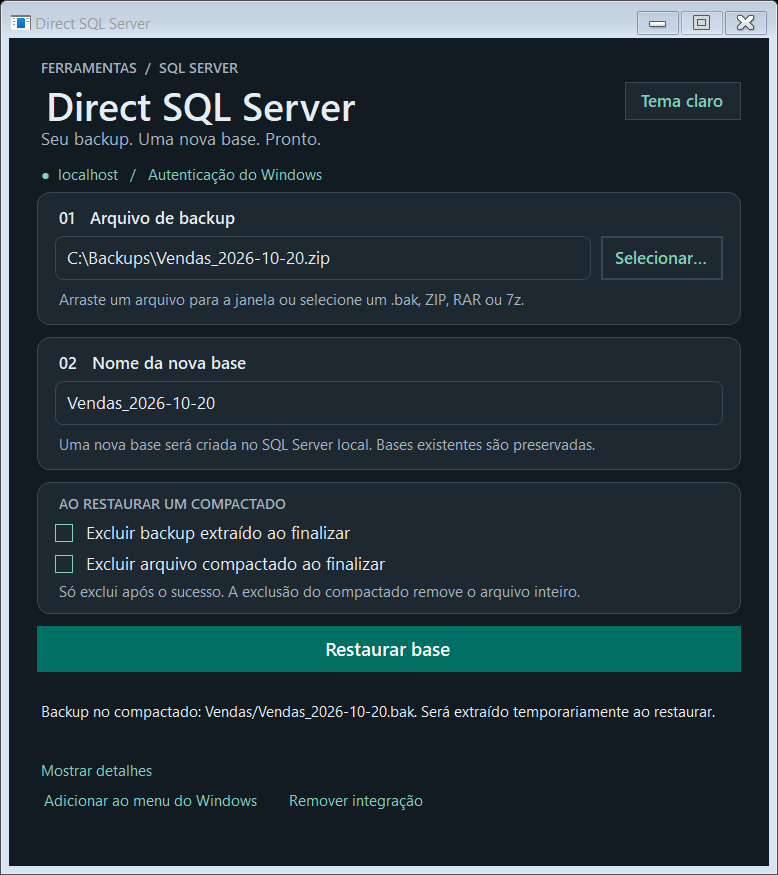
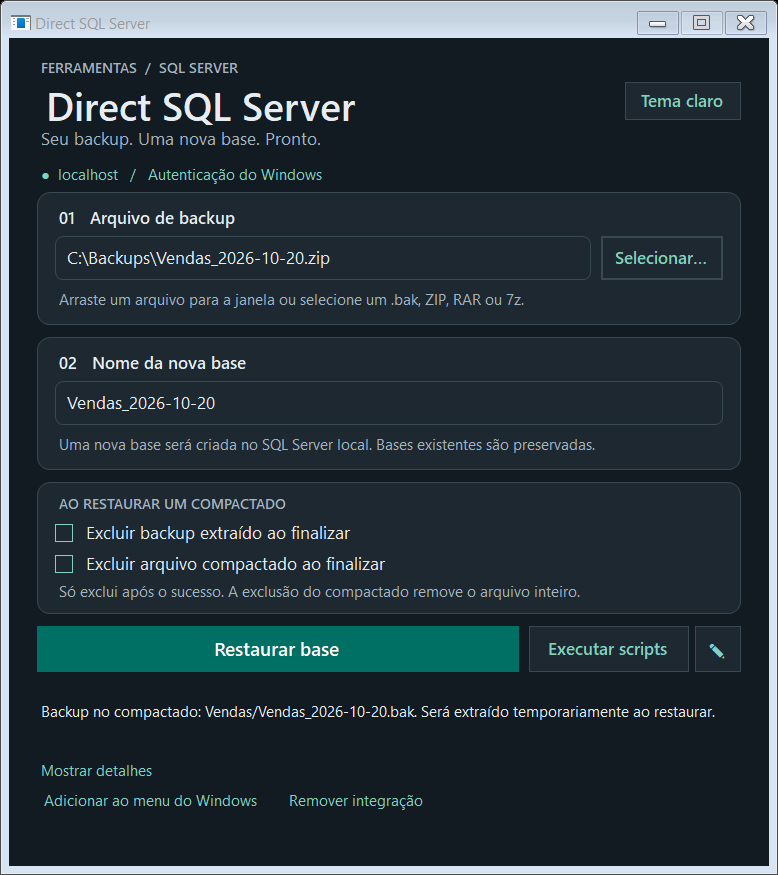
Document the SQL scripts feature

Changed region(s): [[0.6478, 0.7097, 0.9563, 0.7714], [0.2776, 0.7097, 0.5861, 0.7714]]

diff --git a/README.md b/README.md
@@ -16,6 +16,7 @@ Aplicativo para **Windows** que restaura um backup do SQL Server em uma **base n
 - [Instalação passo a passo](#instalação-passo-a-passo)
 - [Restaurar um backup passo a passo](#restaurar-um-backup-passo-a-passo)
 - [Backup dentro de um compactado](#backup-dentro-de-um-compactado)
+- [Executar scripts SQL na base restaurada](#executar-scripts-sql-na-base-restaurada)
 - [Menu do botão direito no Explorer](#menu-do-botão-direito-no-explorer)
 - [Tema claro e escuro](#tema-claro-e-escuro)
 - [Atualizações automáticas](#atualizações-automáticas)
@@ -34,6 +35,7 @@ Aplicativo para **Windows** que restaura um backup do SQL Server em uma **base n
 - **Arrastar e soltar** um arquivo para a janela.
 - **Nunca substitui nada:** se já existir uma base com o nome escolhido, a restauração é recusada e nada é alterado.
 - **Seguro por padrão:** conecta só no SQL Server **do próprio computador**, com a **autenticação do Windows**. Não pede nem guarda senha.
+- **Scripts pós-restauração:** botão para rodar, e editar, comandos SQL na base restaurada.
 - **Menu do Explorer:** botão direito no arquivo → *Restaurar no SQL Server…* (opcional).
 - **Tema claro e escuro.**
 - **Atualização automática** com um clique.
@@ -165,6 +167,28 @@ Com um compactado selecionado, a caixa **AO RESTAURAR UM COMPACTADO** fica ativa
 
 Se o Windows não deixar criar a pasta de extração ao lado do compactado (por exemplo, em `C:\inetpub\SQLServerData`), o app pede **autorização de administrador somente nesse caso** e continua com o mesmo arquivo, nome e opções. Se você cancelar o pedido, a janela original permanece e **nada é excluído**.
 
+## Executar scripts SQL na base restaurada
+
+Ao lado de **Restaurar base** há o botão **Executar scripts** e um lápis para editá-los. Eles rodam comandos SQL na base indicada em **Nome da nova base**, por exemplo para ajustar dados logo depois de restaurar um backup de produção.
+
+1. **Veja ou altere os comandos:** clique no **lápis**. Abre uma janela com os scripts salvos (na primeira vez, o padrão do app). Edite como quiser e clique em **Salvar**. **Restaurar padrão** volta ao texto original.
+2. **Execute:** confira o nome da base e clique em **Executar scripts**. O app pede confirmação mostrando o nome da base e quantos lotes serão executados.
+3. **Resultado:** os detalhes abrem sozinhos mostrando cada lote e quantas linhas cada comando afetou.
+
+<p align="center">
+  <img src="docs/img/10-editar-scripts-claro.png" alt="Janela de edição dos scripts SQL" width="560">
+</p>
+
+<p align="center">
+  <img src="docs/img/09-scripts-executados-claro.png" alt="Scripts executados com sucesso, com as linhas afetadas nos detalhes" width="460">
+</p>
+
+- **Tudo ou nada:** todos os lotes rodam em **uma única transação**. Se um comando falhar, **nada é alterado**.
+- **Lotes:** uma linha só com `GO` separa lotes, como no SSMS. Sem `GO`, tudo vai em um lote.
+- **Só em base existente:** a base precisa existir e estar online. Bases de sistema (`master`, `model`, `msdb`, `tempdb`) são recusadas.
+- **Fica salvo:** os scripts ficam em `%APPDATA%\DirectSqlServer\scripts.sql` e continuam lá depois de reiniciar o PC e de atualizar o app.
+- **Cuidado:** os comandos alteram dados e **não dá para desfazer depois de concluídos**. Confira o nome da base antes de confirmar.
+
 ## Menu do botão direito no Explorer
 
 Opcional. No rodapé da janela, clique em **Adicionar ao menu do Windows**. Depois, no Explorer:
@@ -218,6 +242,7 @@ Se o serviço do SQL Server não tem permissão para ler o backup (comum em Down
 | Aplicativo instalado | `%LOCALAPPDATA%\DirectSqlServer` |
 | Opções de exclusão | `%APPDATA%\DirectSqlServer\preferences.xml` |
 | Tema | `%APPDATA%\DirectSqlServer\theme.txt` |
+| Scripts SQL | `%APPDATA%\DirectSqlServer\scripts.sql` |
 | Registros de cada restauração | `%LOCALAPPDATA%\DirectSqlServer\Logs` (contêm nomes de bases e caminhos locais) |
 | Cópia temporária (só quando necessária) | `%ProgramData%\DirectSqlServer-<SID>\` |
 | Falha de integração com o Explorer | `%TEMP%\DirectSqlServer-install-error.txt` |

diff --git a/CHANGELOG.md b/CHANGELOG.md
@@ -1,5 +1,11 @@
 # Notas de versão
 
+## 1.7.0
+
+### Scripts SQL depois de restaurar
+- Novo botão **Executar scripts** e um lápis para **editar** os comandos. Eles rodam na base indicada em "Nome da nova base", todos em uma única transação (se um falhar, nada é alterado), com `GO` para separar lotes.
+- Vem com o script padrão (ambiente de homologação e e-mails de teste). Os scripts editados ficam salvos em `%APPDATA%\DirectSqlServer\scripts.sql`, mesmo após reiniciar o PC ou atualizar o app.
+
 ## 1.6.0
 
 ### Instalador e atualização automática
